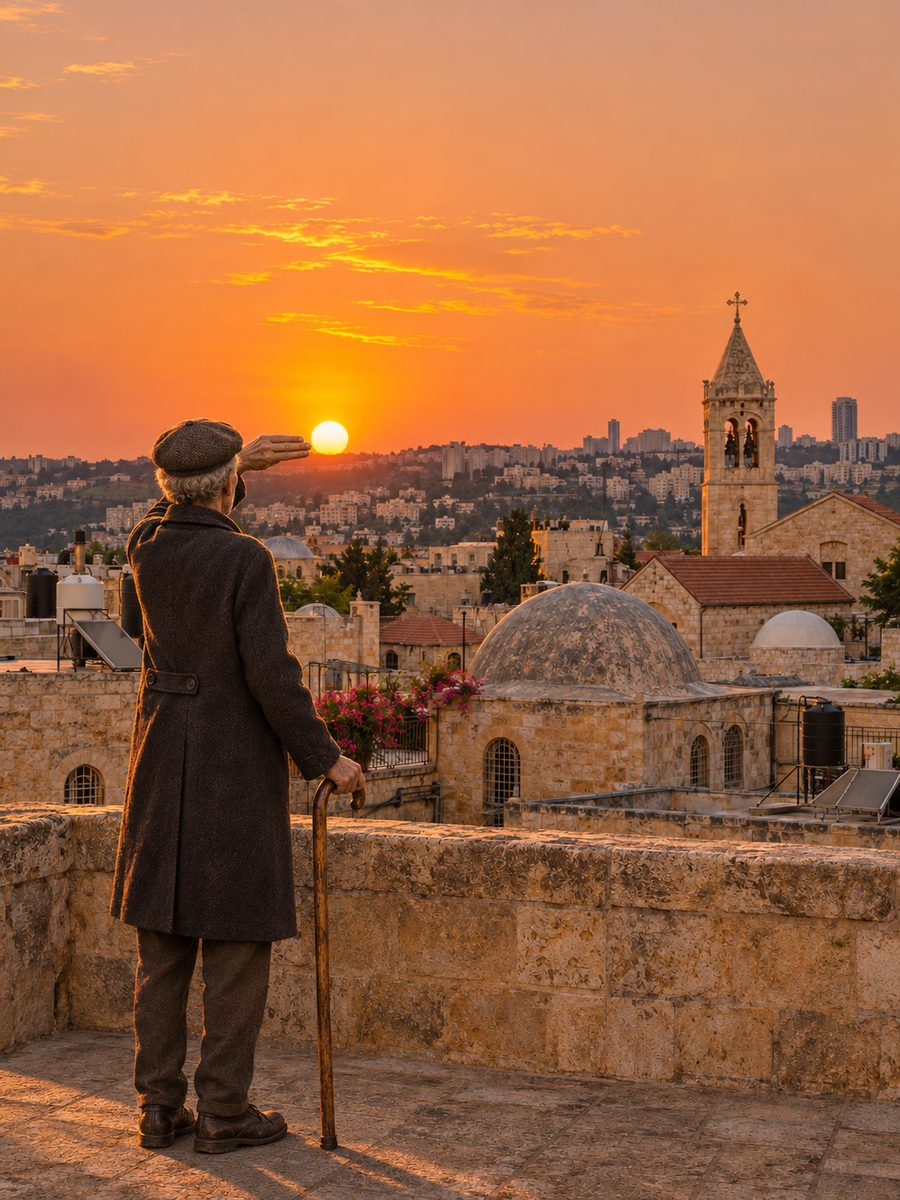
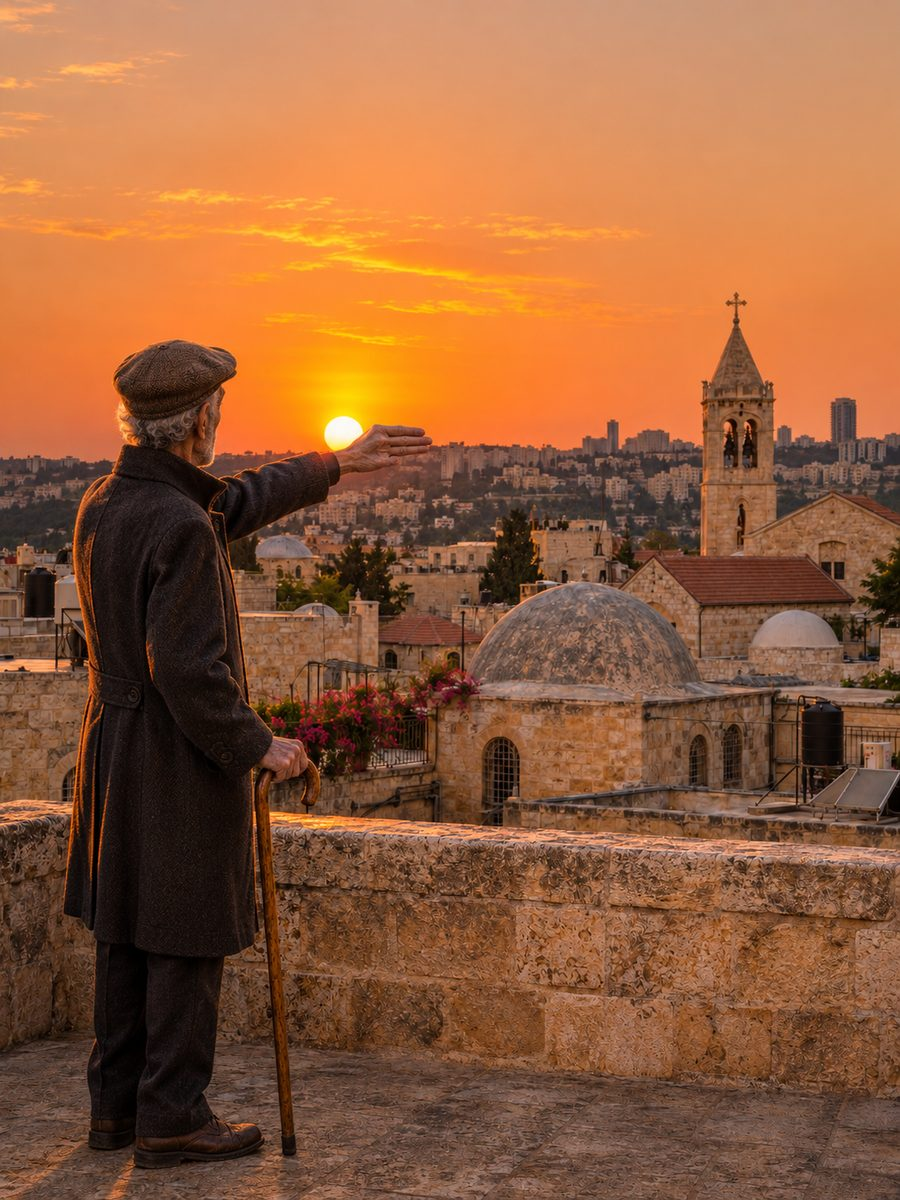
v7e: Act 5 picture set complete (stair man, desk drawer, roof, chosen newspaper)
Claude-Session: https://claude.ai/code/session_011AqaUbLZhNpG24xiQxeqKm

Changed region(s): [[0.0, 0.2467, 1.0, 1.0], [0.9956, 0.4317, 1.0, 0.4625], [0.2489, 0.2158, 0.28, 0.2467]]

diff --git a/app/www/js/fsy-ep2.js b/app/www/js/fsy-ep2.js
@@ -2310,7 +2310,7 @@
         K.card(T + stamp("7:06 p.m. · the seventeen days close") + '<h2>The marker clicks</h2><div class="e2-candles">' + "<i></i>".repeat(7) + "</div><p>In the journal, the seventh candle is drawn beside the other six.</p><p>When you look up from the marker, Yoel is on the stair, going down one step at a time with the stick. He does not look back. He has left his own rod leaning on the parapet.</p>" + '<button class="cta" data-act="x">Go on</button>',
           { x: () => K.card('<div class="kick">The second book · the final page</div><div class="e2-paper"><b>THE COVENANT: CONFIRMED, 25 AV</b><b>THE MAN: REVEALED</b><b>THE COUNT: BEGUN</b></div><p class="e2-jline">“You know where. You know when. Now watch what he does in the middle.”</p><button class="cta" data-act="x">Go on</button>',
             { x: () => K.card('<div class="kick">Some days later</div><h2 class="e2-later">The desk at home</h2><img class="e2-obj tall" src="img/fsy/w/desk-day.jpg" alt=""><p>The Lamplighter’s desk, where it all began. The clock is still stopped at 9:27. The drawer that was locked, with the card “Not this time”, is open a finger’s width. The card has been turned over. On the back, in the Lamplighter’s hand:</p>' + F.wnote("This time.") + '<button class="cta" data-act="x">Open the drawer</button>',
-              { x: () => K.card('<div class="kick">The drawer</div>' + OBJ("e2-coin-back") + "<p>Inside the drawer there is one thing. A silver Temple coin. Cyrus, and behind him a second face, worn smooth by a thumb.</p>" + '<p class="e2-jline">The same coin. The drawer does not say whose thumb wore it.</p><button class="cta" data-act="x">Go on</button>', { x: () => { set("e:end"); E().done.e7 = 1; save(); endAct5(); } }) }) }) }); }; };
+              { x: () => K.card('<div class="kick">The drawer</div>' + W5("desk-drawer") + "<p>Inside the drawer, behind the card, there is one thing. A silver Temple coin. You turn it over.</p>" + OBJ("e2-coin-back") + "<p>Cyrus, and behind him a second face, worn smooth by a thumb.</p>" + '<p class="e2-jline">The same coin. The drawer does not say whose thumb wore it.</p><button class="cta" data-act="x">Go on</button>', { x: () => { set("e:end"); E().done.e7 = 1; save(); endAct5(); } }) }) }) }); }; };
     const last = () => K.card(T + face("yoel") + "<p>Yoel puts your hand on the brass marker himself.</p>" + Y("Seventeen days I marked. They close now. Press it when the sun has gone, and not before. I taught you that on this roof before I ever met you.") + '<button class="cta" data-act="x">Watch the sun</button>', { x: sunset });
     const QS = { one: ["“Is he the one?”", Y("You proved the act yourself and you still want it from my mouth. Yes. First the falling away. You have had coffee with it. Then the man revealed. You watched the hand. Then That Day. Do not ask me the day. I have a count to the middle, and I will not pretend to more.")],
       who: ["“Who gave them your measure?”", Y("Someone I loved, who thought he was protecting me.") + "<p>He looks out over the roofs.</p>" + Y("That is not for tonight.")],

diff --git a/app/www/js/release.js b/app/www/js/release.js
@@ -8,7 +8,7 @@
   /* Every new build starts from the very first scene (full start screen, Creation level 1), as Richard asked.
      The progress saved by an older build, here and in iCloud, is set aside.
      !! Turn FRESH_EACH_BUILD off before an UPDATE goes to real players, or their progress would be wiped. */
-  const BUILD = "v7d";
+  const BUILD = "v7e";
   const FRESH_EACH_BUILD = true;   // off for TestFlight: testers keep their progress between updates
   /* The Final Seven Years: false = shown as a preview only, every chapter locked ("Coming soon").
      Set to true when Richard opens chapter 1. */

diff --git a/app/www/js/dev.js b/app/www/js/dev.js
@@ -9,7 +9,7 @@
      Garden Gate, mark the first three stories done, reset the adventure, replay the full start screen. */
 (function () {
   "use strict";
-  const TESTER = true;    // tester build v7d
+  const TESTER = true;    // tester build v7e
   const Lamp = (window.Lamp = window.Lamp || {});
   Lamp.tester = TESTER;
   if (!TESTER) return;

diff --git a/docs/fsy/FIX-LIST.md b/docs/fsy/FIX-LIST.md
@@ -641,8 +641,12 @@ Gerry's review of the Act 5 second draft (9/10), applied to the prototype.
 | 1 | Act 5 pictures, first set (Richard): Yoel's room with the radio (scene 1), the typist's table, Avi's booth, the Quarter steps and the newspaper seller (race), the dark stair, Yoel measuring the sun on the roof; objects: radio, typist's sheet, the clocks (OURS/THEIRS added), the newspaper photograph (heading given as game text), the seal and tracing, the loose sheet. The signer in the photograph is seen from behind with nothing to identify him. | Done in v7d |
 | 2 | Still to come: the young man's portrait (stairman), the desk drawer with Haller's coin (redo), optionally the roof redo with the arm held out. | Waiting for pictures |
 
-## Next build (pending)
+## Build v7e (20 Nov 2026)
 
 | # | Fix | State |
 | --- | --- | --- |
-| 1 | Newspaper photograph in the Act 5 proof: Richard chose the second version (signer seen from behind, fair hair) over the first (dark hair). His decision, 20 Nov, after Claude advised the first. No face, no name. | In, waiting for the next zip |
+| 1 | Newspaper photograph in the Act 5 proof: Richard chose the second version (signer seen from behind, fair hair) over the first (dark hair). His decision, 20 Nov, after Claude advised the first. No face, no name. | Done in v7e |
+| 2 | The young man on the stair has his portrait, shown beside his words during the count. | Done in v7e |
+| 3 | Epilogue: the Lamplighter's own desk with the drawer open, the blank card and Haller's coin; then the coin turned over. | Done in v7e |
+| 4 | The roof: Yoel with his arm held out, measuring the sun (replaces the first try). | Done in v7e |
+| 5 | Act 5 picture set complete (15 of 15). Next: clips, then voice and music. | Noted |
